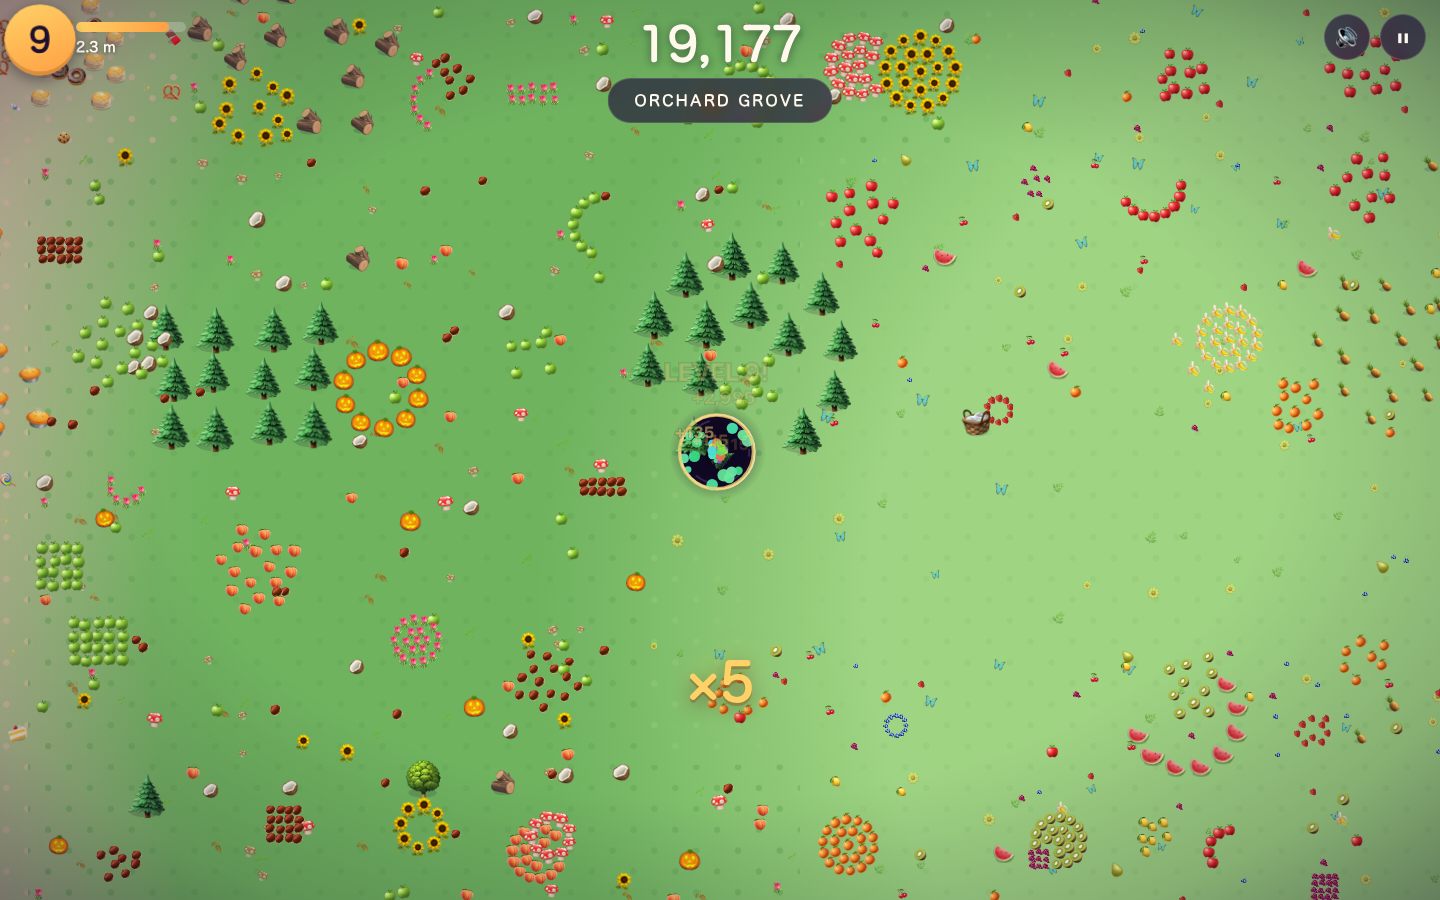
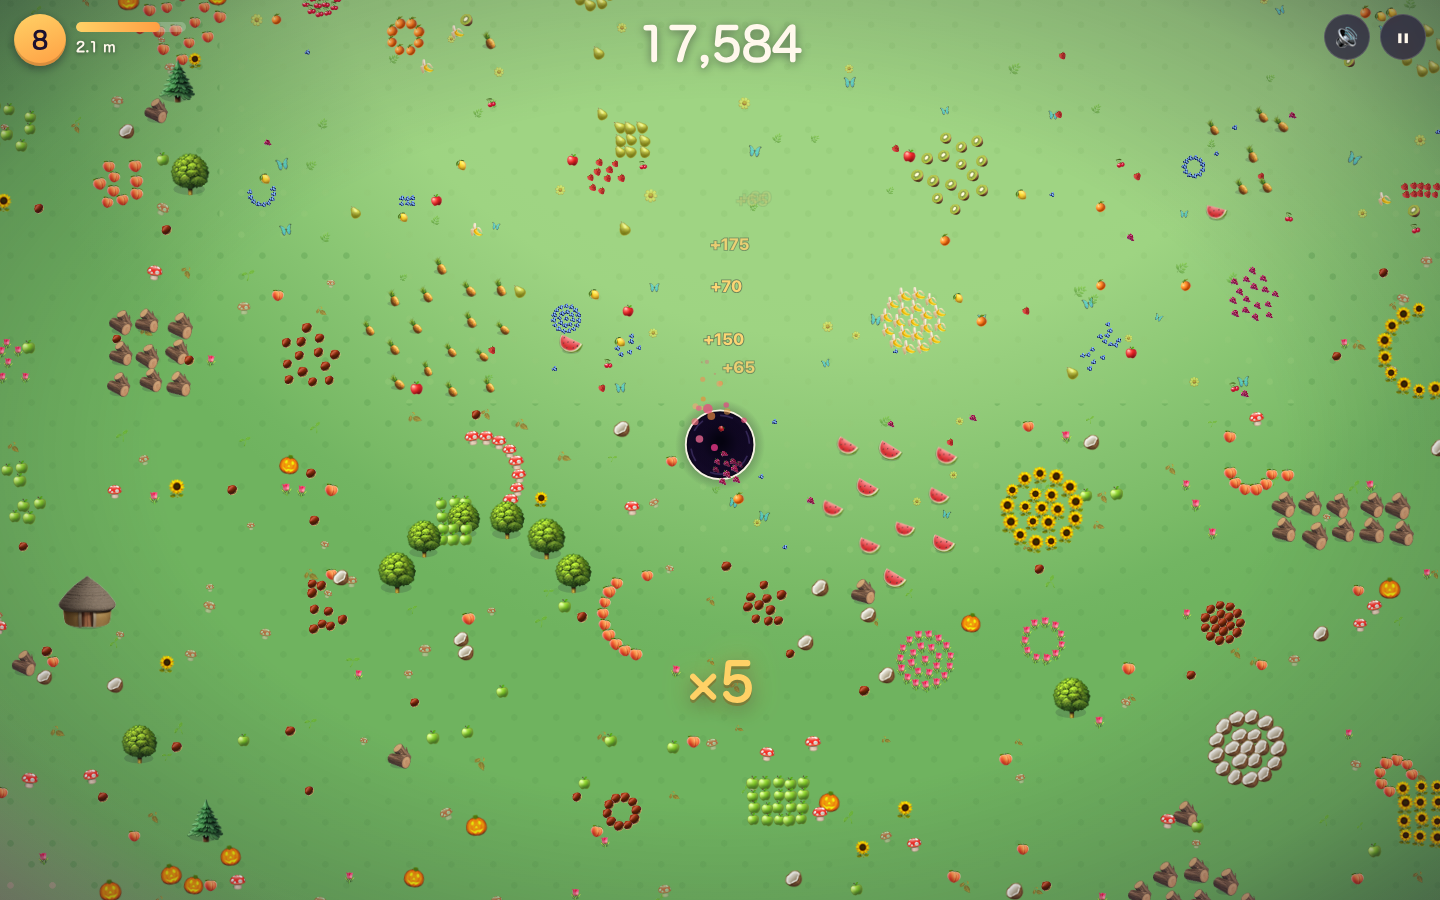
Docs for the fractal mechanic + Hole Foods README with fresh media, og image

diff --git a/README.md b/README.md
@@ -1,41 +1,60 @@
-# Bottomless
+<p align="center">
+  <img src="media/og.png" alt="Hole Foods start screen" width="640">
+</p>
+
+# Hole Foods
 
 **You are a hole. Everything fits, eventually.**
 
-An endless, single-player hole-swallowing game for the web. Roll over a candy-colored world eating berries, cakes, toys, cars and whole city blocks — and grow. The world is procedurally generated and infinite: the further you roam, the bigger everything gets. No timer, no death, no end. Just the hole.
+<p align="center">
+  <img alt="license: MIT" src="https://img.shields.io/badge/license-MIT-blue">
+  <img alt="dependencies: none" src="https://img.shields.io/badge/runtime_deps-none-brightgreen">
+  <img alt="tests: 57" src="https://img.shields.io/badge/tests-57_passing-brightgreen">
+</p>
 
-![Start screen](media/start.png)
+---
+
+An endless hole-swallowing game for the web. Steer a hole across a candy-colored world, vacuum up anything that fits — berries, cakes, teddy bears, taxis, apartment blocks — and grow. There's no timer, no death, no end. Just appetite.
+
+- **Fractal world**: the game plays identically at 44 cm and 800 m. Biomes, food spacing, camera zoom, and effects all scale together, forever.
+- **Procedural and deterministic**: infinite seeded terrain (`?seed=anything` pins a world); what you eat stays eaten.
+- **Zero anything**: no build step, no runtime dependencies, no asset files. Emoji are the art; the sounds are synthesized in WebAudio at play time.
+- **Plays everywhere**: mouse, WASD/arrows, or touch. Desktop and phone.
+
+![Early game in Orchard Grove](media/orchard.png)
+
+Roam far enough and the cycle repeats one size up — your entire first world shrinks to a bullseye behind you:
+
+![131 m hole, first world visible as rings](media/fractal.png)
 
 ## Play
 
 ```bash
-npm run serve        # or: python3 -m http.server 8137
-# open http://localhost:8137
+git clone https://github.com/maninae/hole-foods.git
+cd hole-foods && npm run serve   # or: python3 -m http.server 8137
 ```
 
-Static vanilla JS — no build step, no runtime dependencies, no assets to download. Emoji are the art; the sounds are synthesized in WebAudio on the fly.
-
-**Controls:** the hole follows your mouse. WASD / arrow keys work too. On a phone, drag your finger. `Esc` or `P` pauses.
+Open http://localhost:8137. The hole follows your mouse; <kbd>Esc</kbd> pauses.
 
 ## How it works
 
-- **Fit and swallow.** Anything smaller than the hole gets vacuumed in when you pass over it. Anything bigger just sits there — for now. Almost-fitting objects pulse a white ring: *grow a bit more*.
-- **Growth is area.** The hole's area absorbs a fraction of everything it eats, so pacing feels the same whether you're eating blueberries or apartment buildings.
-- **Biome bands.** The world radiates outward from spawn: Berry Meadow → Orchard Grove → Sugar Bakery → Toybox Town → Funfair Boardwalk → Downtown. After Downtown the cycle repeats as *Berry Meadow II* — with everything six times larger.
-- **Combos.** Fast consecutive swallows build a ×2…×5 multiplier.
-- **Deterministic worlds.** Every run has a seed (`?seed=whatever` to pin one); the same seed always generates the same world. Eaten objects stay eaten.
+| Mechanic | Rule |
+|----------|------|
+| Swallowing | Objects fitting inside the hole get vacuumed in; too-big ones pulse a ring: *grow a bit more* |
+| Growth | Hole area absorbs a fraction of everything eaten — pacing feels the same at every scale |
+| Combos | Swallows ≤ 1.8 s apart stack a ×2…×5 multiplier |
+| Biomes | Berry Meadow → Orchard Grove → Sugar Bakery → Toybox Town → Funfair Boardwalk → Downtown, then again at 6× size ("Berry Meadow II"), forever |
 
-![Orchard Grove](media/orchard.png)
-![Downtown, one cycle out](media/downtown.png)
+The endless part is a fractal invariant: biome bands widen geometrically, world chunks come in per-cycle sizes, and the camera zooms out without bound — so on-screen density, speed, and effects stay constant no matter how huge you get.
 
 ## Development
 
 ```bash
-npm test             # unit tests: engine (rng, world gen, growth, swallow, camera)
-npm run test:e2e     # Playwright: boots the game, steers, swallows, checks mobile
+npm test             # unit tests — headless engine (world gen, growth, swallow, fractal invariants)
+npm run test:e2e     # Playwright — real steering, swallowing, mobile layout
 ```
 
-The engine is headless — world generation, growth, and swallow rules are pure modules driven by the same API the browser uses. See [CLAUDE.md](CLAUDE.md) for the architecture map.
+Architecture, invariants, and gotchas live in [CLAUDE.md](CLAUDE.md); design rationale in [docs/superpowers/specs/](docs/superpowers/specs/2026-07-02-hole-foods-design.md).
 
 ## License
 

diff --git a/CLAUDE.md b/CLAUDE.md
@@ -16,8 +16,9 @@ js/rng.js            xmur3+mulberry32 seeded PRNG; chunkRng(seed,cx,cy,salt)
 js/catalog.js        6 biomes × item tables (emoji, base radius, weight, hue),
                      band/cycle math, pointsFor
 js/patterns.js       cluster layouts: ring/doubleRing/grid/spiral/arc/blob (pure)
-js/world.js          chunk lifecycle, deterministic generation, eaten-set
-                     persistence, padded spatial queries
+js/world.js          FRACTAL chunk lifecycle: chunk size scales x6 per biome
+                     cycle (leveled grids), deterministic generation, eaten-set
+                     persistence, LOD level skipping, spatial queries
 js/hole.js           player state: easing movement, area-accumulation growth,
                      radius-milestone levels, sizeLabel
 js/swallow.js        vacuum pull, tip-in fall state machine, combo + scoring;
@@ -45,15 +46,27 @@ js/main.js           bootstrap, rAF loop, event wiring ONLY — no game rules
 
 ## Invariants (break these and the world breaks)
 
-- **Chunk generation must be deterministic** from `(seed, cx, cy)`. Consume
-  the chunk RNG identically on every path — `tryPlace` consumes an id index
-  even when placement is rejected, so ids stay stable.
+- **THE FRACTAL INVARIANT** (tests/unit/fractal.test.js): the game must look
+  and play identically at every scale. Biome bands widen ×CYCLE_SIZE_MULT per
+  cycle (`bandRange`/`bandIndex` in catalog.js are geometric), chunk size
+  scales the same way (`chunkSizeAt(level)`), zoom is effectively unclamped,
+  and SPEED/ZOOM exponents keep on-screen speed and hole size near-constant.
+  Never reintroduce a meaningful ZOOM_MIN or fixed-size-only chunks — that's
+  the bug where the hole filled the screen and particles walled the view.
+- **Chunk generation must be deterministic** from `(seed, level, cx, cy)`.
+  Consume the chunk RNG identically on every path — `tryPlace` consumes an id
+  index even when placement is rejected, so ids stay stable.
+- **Level ownership + LOD:** a grid cell exists only at the level matching
+  its center's cycle (`cellOwned`); queries visit levels [L−1..L+1] but skip
+  any level whose chunks span < 1/44th of the view (`levelsFor`) — that keeps
+  loaded chunks bounded (<1800) at any zoom. Render also skips objects under
+  1 screen px. Thin gap/overlap rings at cycle boundaries are expected and
+  cosmetically invisible.
 - **Eaten persistence:** `world.eaten` (Map chunkKey→Set idx) outlives chunk
   unload; regenerated chunks filter against it. Never store eaten state on the
   chunk itself.
-- **Padded queries:** objects can sit far outside their owning chunk's rect
-  (cluster extents ≤ ~900 × cycle-size-mult world units). `padChunksAt` sizes
-  the search window; both `forEachObjectNear` and `forEachChunkInRect` use it.
+- **Padded queries:** objects can sit outside their owning chunk's rect;
+  PAD=3 chunks (in each level's own units) always covers cluster extents.
 - **1 world unit = 1 cm** for the HUD size label. Hole starts r=22 (44 cm).
 - Growth is scale-free: `r' = √(r² + 0.35·s²)`; points = `s²/8`. If you change
   one, the pacing tests will tell you.
@@ -61,7 +74,7 @@ js/main.js           bootstrap, rAF loop, event wiring ONLY — no game rules
 ## Testing
 
 ```
-npm test           # 46 unit tests (node --test tests/unit/*.test.js)
+npm test           # 53 unit tests (node --test tests/unit/*.test.js)
 npm run test:e2e   # 4 Playwright tests: real steering → swallow → growth,
                    # pause/mute/best persistence, mobile overflow (iPhone 13)
 ```
@@ -82,8 +95,9 @@ artifacts in tests/e2e/artifacts/ are gitignored).
 - The ground must NEVER be painted per-chunk with flat colors — that reads as
   a checkerboard. It's one radial gradient (origin-centered) + dot tiles.
 - Monochrome emoji (⚽🎲🎳) are legit color-font glyphs; don't "fix" them.
-- Headless software rendering: ~76fps early game, ~31fps at the worst-case
-  cycle boundary — GPU browsers run 60fps. Don't panic at headless numbers.
+- Headless software rendering: ~76fps early game, ~25fps two cycles deep —
+  GPU browsers run 60fps. Don't panic at headless numbers.
+- Scores go compact past 1M (`fmtNum`: "56.0M") in HUD and floaters.
 - Score floaters are capped (7 live) so ×5 combo frenzies don't wall the
   screen with text.
 - launchd/daemon rules and heavy-asset policy: see the user-level CLAUDE.md

diff --git a/docs/superpowers/specs/2026-07-02-hole-foods-design.md b/docs/superpowers/specs/2026-07-02-hole-foods-design.md
@@ -68,6 +68,17 @@ Engine modules (`rng`, `catalog`, `patterns`, `world`, `hole`, `swallow`, `camer
 - `npm test` — `node --test tests/unit/*.test.js`: rng determinism; catalog integrity; pattern geometry; world determinism + eaten persistence + banding; growth monotonicity + level math; swallow fit/pull/combo rules. TDD (red→green) for all engine modules.
 - `npm run test:e2e` — Playwright (pinned 1.58.2, same as packet-run): page boots with zero console errors; PLAY starts; driving toward a seeded object swallows it (score > 0, radius grows); mute persists; screenshots at desktop + iPhone viewports reviewed before ship.
 
+## Amendment (2026-07-02, post-playtest): the fractal invariant
+
+Owen's playtest at ~level 28 exposed the scale break: `ZOOM_MIN 0.26` let the hole outgrow the screen, so swallow particles walled the view and the vacuum reached past the visible edge. Fix shipped the same day — **the world is now self-similar at every scale**:
+
+- Biome bands widen geometrically (×`CYCLE_SIZE_MULT` per cycle) instead of linearly, so a band takes about as long to cross at any size.
+- Chunks come in per-cycle levels (`chunk size = CHUNK × 6^cycle`); grids whose chunks would span < 1/44th of the view are skipped (LOD), keeping loaded chunks bounded (< 1800) at any zoom.
+- Zoom is effectively unclamped (`ZOOM_MIN 0.002`); with `SPEED_EXP 0.85` vs `ZOOM_EXP 0.8`, on-screen hole size (~150–220 px) and speed stay near-constant forever.
+- Particle pool capped at 280 with a per-swallow effects budget; scores format compact ("56.0M") past a million.
+
+Covered by `tests/unit/fractal.test.js` (band geometry, level ownership, bounded chunk counts, LOD skipping, cross-boundary queries).
+
 ## Out of scope (YAGNI)
 
 Multiplayer/AI holes, timers/quests/skins/shops, app-store packaging, backend anything, save-mid-run world state (only best-run + mute persist).